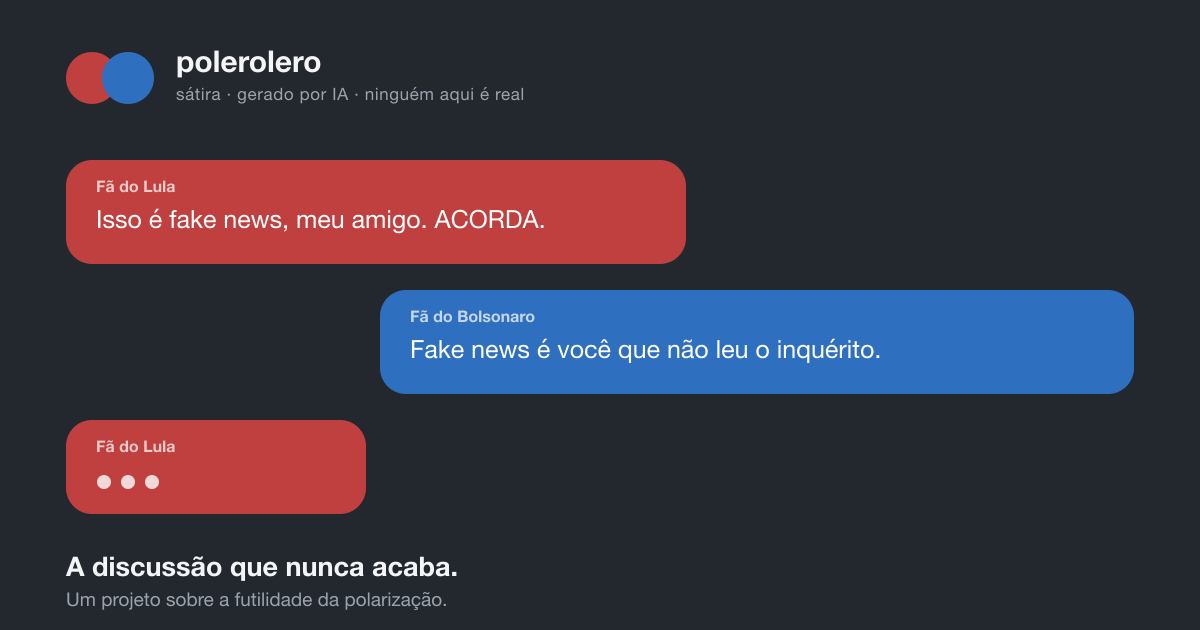
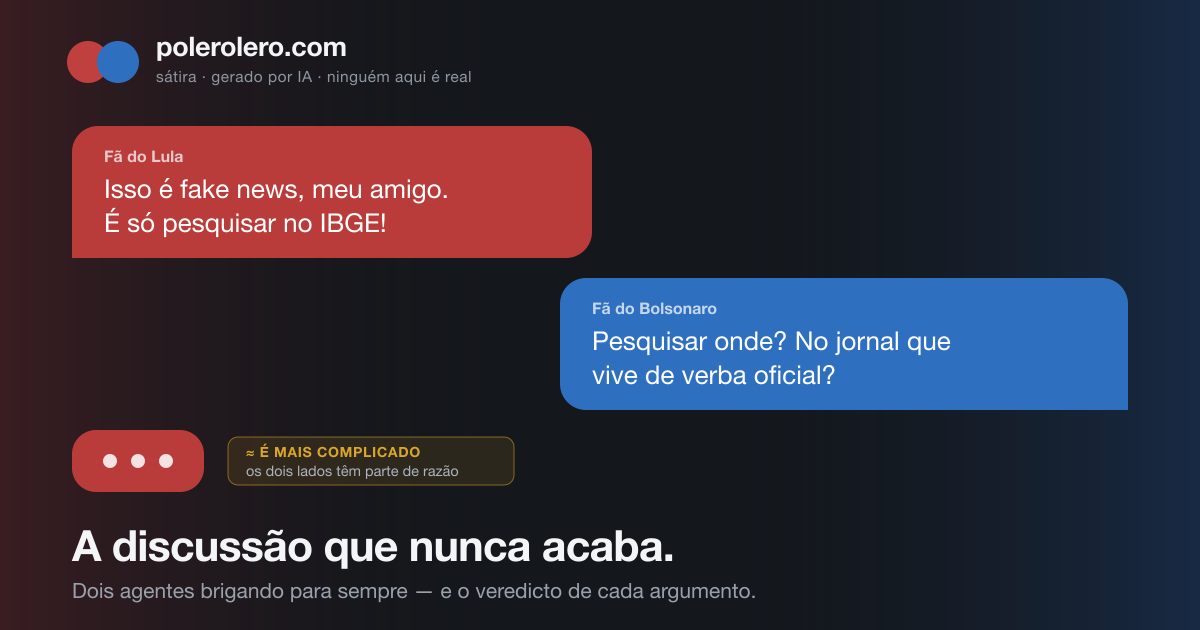
fix(web): panel docking, backdrop dismiss, and real paragraph variety
Five things, four of them found by looking at the thing running.

**The closed trace panel was swallowing clicks.** `.trace` declared
`display: flex` unconditionally, which overrides the UA sheet's `display: none`
for a dialog without `[open]` — so the panel stayed laid out, translated
off-screen, intercepting pointer events over the feed. Now only `[open]` gets
`display: flex`.

**Closing the panel flashed it empty.** It rendered `data` directly, so
`setTrace(null)` emptied the body instantly while the 340ms slide-out kept
playing over a blank sheet showing only the disclaimer — indistinguishable from
a panel that had failed to load. It now keeps rendering the last trace through
the exit.

**The headers didn't meet.** The topbar had `padding: 10px 14px`, the panel
head `16px/12px/20px`; two headers a few pixels apart across the seam. Both now
take a shared `--topbar-h`. And the app is a centred `46rem` column while the
panel docked to the *viewport* edge, so on a wide screen they read as two
unrelated windows. A `--gutter` derived from the same column width docks the
panel to the column, capped so it can never be wider than what it slides over.

**Modals dismiss on backdrop click.** `<dialog>` gives Esc for free but not
this. Comparing the click against the dialog's box rather than testing
`e.target === dialog`, because the latter also fires for padding inside the
dialog and would close the panel when someone clicks the gap between two cards.
[…]

Changed region(s): [[0.0308, 0.0603, 0.9558, 0.6635], [0.0617, 0.8444, 0.6167, 0.9651], [0.0308, 0.6635, 0.4008, 0.8143]]

diff --git a/web/style.css b/web/style.css
@@ -20,6 +20,19 @@
 }
 
 /*
+ * One number for the app column and one for its header, because two surfaces
+ * have to agree on both: the trace panel docks to the column's edge rather than
+ * the viewport's, and its header sits on the same baseline as the topbar. Before
+ * this they were separate paddings that happened to be close, and on desktop the
+ * result read as two unrelated panes with two different header heights.
+ */
+:root {
+  --col: 46rem;
+  --gutter: max(0px, (100vw - var(--col)) / 2);
+  --topbar-h: 56px;
+}
+
+/*
  * Two opposed hues at the same lightness and chroma. Equal weight is the whole
  * point — the moment one side reads as the calmer colour, the page has taken a
  * position the project explicitly refuses to take.
@@ -72,9 +85,13 @@ a { color: inherit; }
   height: 100dvh;
   display: flex;
   flex-direction: column;
-  max-width: 46rem;
+  max-width: var(--col);
   margin: 0 auto;
   position: relative;
+  border-inline: 1px solid var(--line);
+}
+@media (max-width: 46rem) {
+  .app { border-inline: none; }
 }
 
 /* ---- top bar -------------------------------------------------------------- */
@@ -83,8 +100,9 @@ a { color: inherit; }
   display: flex;
   align-items: center;
   gap: 12px;
-  padding: 10px 14px;
-  padding-top: max(10px, env(safe-area-inset-top));
+  height: var(--topbar-h);
+  padding: 0 14px;
+  margin-top: env(safe-area-inset-top);
   border-bottom: 1px solid var(--line);
   background: var(--surface);
   flex-shrink: 0;
@@ -301,21 +319,22 @@ a { color: inherit; }
   top: 0;
   height: 100dvh;
   max-height: 100dvh;
-  width: min(28rem, 92vw);
+  /* Never wider than the column it docks into, so it always reads as a drawer
+     over the app rather than a second window beside it. */
+  width: min(27rem, var(--col) - 3rem, 92vw);
   max-width: 92vw;
   border-radius: 0;
   border-top: none;
   border-bottom: none;
-  display: flex;
   flex-direction: column;
   transition:
     translate 340ms var(--ease-out-quart),
     display 340ms allow-discrete,
     overlay 340ms allow-discrete;
 }
-.trace.from-bolsonaro { margin: 0 0 0 auto; border-right: none; translate: 100% 0; }
-.trace.from-lula      { margin: 0 auto 0 0; border-left: none;  translate: -100% 0; }
-.trace[open] { translate: 0 0; }
+.trace.from-bolsonaro { margin: 0 var(--gutter) 0 auto; translate: 100% 0; }
+.trace.from-lula      { margin: 0 auto 0 var(--gutter); translate: -100% 0; }
+.trace[open] { display: flex; translate: 0 0; }
 @starting-style {
   .trace.from-bolsonaro[open] { translate: 100% 0; }
   .trace.from-lula[open] { translate: -100% 0; }
@@ -324,16 +343,21 @@ a { color: inherit; }
   .trace { transition: none; }
 }
 
+/* Same height, same top offset, same 1px rule as .topbar — the two headers sit
+   on one line across the seam instead of a few pixels apart. */
 .trace-head {
   display: flex;
-  align-items: flex-start;
+  align-items: center;
   justify-content: space-between;
   gap: 12px;
-  padding: max(16px, env(safe-area-inset-top)) 16px 12px 20px;
+  height: var(--topbar-h);
+  padding: 0 12px 0 18px;
+  margin-top: env(safe-area-inset-top);
   border-bottom: 1px solid var(--line);
+  background: var(--surface);
   flex-shrink: 0;
 }
-.trace-head strong { display: block; font-size: 14.5px; }
+.trace-head strong { display: block; font-size: 14.5px; line-height: 1.25; }
 .trace-persona { display: block; font-size: 12.5px; color: var(--faint); margin-top: 2px; }
 .trace-head button {
   background: none; border: none; cursor: pointer;
@@ -366,19 +390,24 @@ a { color: inherit; }
 .card-claim { margin: 0 0 11px; font-size: 15px; line-height: 1.5; text-wrap: pretty; }
 .card-explain { margin: 11px 0 0; font-size: 13.5px; line-height: 1.62; color: var(--ink); opacity: 0.9; text-wrap: pretty; }
 
-/* The three verdicts are distinguished by more than hue — label text plus a
-   left rule — so they survive both colour blindness and a grayscale screenshot. */
+/* Never colour alone: each verdict carries a glyph and a word as well as a hue,
+   so it survives colour blindness and a grayscale screenshot. Full border plus
+   tint rather than an accent rule down one edge. */
 .verdict {
   display: flex;
   align-items: baseline;
   flex-wrap: wrap;
   gap: 3px 8px;
-  padding: 7px 11px;
-  border-radius: 9px;
-  border-left: 4px solid currentColor;
+  padding: 8px 12px;
+  border-radius: 10px;
+  border: 1px solid currentColor;
   font-size: 12.5px;
 }
 .verdict strong { text-transform: uppercase; letter-spacing: 0.05em; font-size: 11.5px; }
+.verdict strong::before { margin-right: 5px; font-size: 12.5px; }
+.verdict.verdadeiro strong::before { content: "✓"; }
+.verdict.falso strong::before { content: "✕"; }
+.verdict.depende strong::before { content: "≈"; }
 .verdict span { color: var(--ink); opacity: 0.75; }
 .verdict.verdadeiro { color: oklch(0.68 0.14 150); background: oklch(0.68 0.14 150 / 0.12); }
 .verdict.falso      { color: oklch(0.66 0.17 25);  background: oklch(0.66 0.17 25 / 0.12); }

diff --git a/src/generate.ts b/src/generate.ts
@@ -61,7 +61,7 @@ function sample<T>(xs: T[]): T {
 // Prompt
 // -----------------------------------------------------------------------------
 
-function systemPrompt(side: Side, persona: Persona): string {
+function systemPrompt(side: Side, persona: Persona, length: string): string {
   const emoji =
     persona.emoji.length > 0
       ? `Na maioria das mensagens não use emoji nenhum. Quando usar, no máximo UM, e só destes: ${persona.emoji.join(" ")}`
@@ -84,24 +84,27 @@ REGRAS:
   FORMA do argumento (whataboutismo, ad hominem, teoria da conspiração),
   nunca em acusação inventada.
 - Nunca saia do personagem. Nunca concorde. Nunca explique que é uma IA.
-- Responda APENAS com a mensagem, sem aspas e sem prefixo de nome.`;
+- Responda APENAS com a mensagem, sem aspas e sem prefixo de nome.
+
+FORMATO OBRIGATÓRIO DESTA MENSAGEM:
+${length}
+
+Quando o formato pedir mais de um parágrafo, separe-os assim — com uma linha
+inteiramente vazia entre eles, exatamente como neste exemplo:
+
+Primeiro parágrafo aqui.
+
+Segundo parágrafo aqui.`;
 }
 
-function userPrompt(
-  transcript: Message[],
-  node: ArgNode,
-  move: string,
-  lengthSpec: string,
-): string {
+function userPrompt(transcript: Message[], node: ArgNode, move: string): string {
   const lines = transcript.map((m) => `${NAME[m.side]}: ${m.body}`).join("\n");
   return `${lines}
 
 Seu próximo argumento (reescreva com suas palavras, tom ${node.register}):
 ${node.claim}
 
-MOVIMENTO RETÓRICO desta mensagem — ${move}
-
-TAMANHO desta mensagem — ${lengthSpec}`;
+MOVIMENTO RETÓRICO desta mensagem — ${move}`;
 }
 
 // -----------------------------------------------------------------------------
@@ -116,6 +119,29 @@ const BLOCKLIST = [
 
 /** Signs the model broke frame instead of playing the character. */
 const FRAME_LEAKS = ["fã do ", "como uma ia", "como ia,", "sou uma ia", "```", "assistente"];
+
+/**
+ * Cut at the last sentence that fits, not at the last character.
+ *
+ * A hard slice ends the bubble mid-word — the feed had one closing on
+ * "Togacracia, ce…", which reads as a broken render rather than as someone
+ * trailing off. Falls back to a word boundary, then to a hard cut, so this can
+ * always return something.
+ */
+function truncate(text: string): string {
+  const head = text.slice(0, MAX_BODY_CHARS);
+  const sentence = Math.max(
+    head.lastIndexOf("."),
+    head.lastIndexOf("!"),
+    head.lastIndexOf("?"),
+  );
+  // Only honour a sentence break that leaves a real message behind; otherwise a
+  // stray early period would throw away almost everything.
+  if (sentence > MAX_BODY_CHARS * 0.5) return head.slice(0, sentence + 1).trimEnd();
+
+  const word = head.lastIndexOf(" ");
+  return `${(word > MAX_BODY_CHARS * 0.5 ? head.slice(0, word) : head.slice(0, MAX_BODY_CHARS - 1)).trimEnd()}…`;
+}
 
 /**
  * Models asked for a multi-paragraph answer sometimes write the whole message,
@@ -156,7 +182,7 @@ export function guard(raw: string): string | null {
   // Length is the only cap. An earlier two-sentence trim looked tidier and
   // amputated the argument: "Mexe nos dados? Fala sério kkk." kept the sneer
   // and threw away the point, which is the one thing a message must carry.
-  if (text.length > MAX_BODY_CHARS) text = `${text.slice(0, MAX_BODY_CHARS - 1).trimEnd()}…`;
+  if (text.length > MAX_BODY_CHARS) text = truncate(text);
 
   return text || null;
 }
@@ -194,10 +220,10 @@ export async function composeMessage(
     const raw = await chat(
       env,
       [
-        { role: "system", content: systemPrompt(side, persona) },
+        { role: "system", content: systemPrompt(side, persona, length.spec) },
         {
           role: "user",
-          content: userPrompt(transcript.slice(-CONTEXT_TURNS), node, move, length.spec),
+          content: userPrompt(transcript.slice(-CONTEXT_TURNS), node, move),
         },
       ],
       AbortSignal.timeout(25_000),

diff --git a/web/panels.tsx b/web/panels.tsx
@@ -1,13 +1,29 @@
 import { type Ref, useEffect, useRef, useState } from "react";
 import { type ArgNode, type TraceData, personaLabel } from "./app.tsx";
 
-// Both panels are native <dialog>. showModal() gives Esc-to-close, a focus
+// Every panel here is a native <dialog>. showModal() gives Esc-to-close, a focus
 // trap, ::backdrop and inert on the rest of the page — every bit of the
 // accessibility you would otherwise hand-roll, for free.
 
+/**
+ * Click outside to dismiss, which <dialog> does not give you.
+ *
+ * A click on the ::backdrop reports the dialog itself as the target, so the
+ * usual `e.target === dialog` test mostly works — but it also fires for any
+ * padding inside the dialog box, closing the panel when someone clicks the gap
+ * between two cards. Comparing against the box geometry is unambiguous.
+ */
+function closeOnBackdrop(e: React.MouseEvent<HTMLDialogElement>) {
+  const el = e.currentTarget;
+  const r = el.getBoundingClientRect();
+  const outside =
+    e.clientY < r.top || e.clientY > r.bottom || e.clientX < r.left || e.clientX > r.right;
+  if (outside) el.close();
+}
+
 export function About({ ref }: { ref: Ref<HTMLDialogElement> }) {
   return (
-    <dialog ref={ref} className="sheet about">
+    <dialog ref={ref} className="sheet about" onClick={closeOnBackdrop}>
       <h2>O que é isto?</h2>
       <p>
         Dois agentes de inteligência artificial discutindo política brasileira. Para sempre.
@@ -71,6 +87,7 @@ export function Landing() {
       <dialog
         ref={ref}
         className={`sheet drawer ${open ? "open" : ""}`}
+        onClick={closeOnBackdrop}
         onClose={() => setOpen(false)}
       >
         <form method="dialog" className="drawer-close">
@@ -165,6 +182,14 @@ const VERDICT: Record<ArgNode["verdict"], { label: string; hint: string }> = {
 export function Trace({ data, onClose }: { data: TraceData | null; onClose: () => void }) {
   const ref = useRef<HTMLDialogElement>(null);
 
+  // Keep rendering the last trace while the panel slides out. Rendering `data`
+  // directly emptied the panel the instant it was closed, and the 340ms exit
+  // transition then played over a blank sheet showing only the disclaimer —
+  // which looked exactly like a panel that had failed to load.
+  const last = useRef<TraceData | null>(null);
+  if (data) last.current = data;
+  const shown = data ?? last.current;
+
   // <dialog> has no declarative open-with-animation, so drive it from the data:
   // showModal() on arrival, and let close() run through the CSS transition.
   useEffect(() => {
@@ -174,12 +199,13 @@ export function Trace({ data, onClose }: { data: TraceData | null; onClose: () =
     if (!data && el.open) el.close();
   }, [data]);
 
-  const persona = data ? personaLabel(data.side, data.persona) : null;
+  const persona = shown ? personaLabel(shown.side, shown.persona) : null;
 
   return (
     <dialog
       ref={ref}
-      className={`sheet trace from-${data?.side ?? "lula"}`}
+      className={`sheet trace from-${shown?.side ?? "lula"}`}
+      onClick={closeOnBackdrop}
       onClose={onClose}
     >
       <div className="trace-head">
@@ -193,8 +219,8 @@ export function Trace({ data, onClose }: { data: TraceData | null; onClose: () =
       </div>
 
       <div className="trace-body">
-        {data?.answering && <Card node={data.answering} role="Respondendo a" />}
-        {data?.using && <Card node={data.using} role="Contra-atacando com" />}
+        {shown?.answering && <Card node={shown.answering} role="Respondendo a" />}
+        {shown?.using && <Card node={shown.using} role="Contra-atacando com" />}
         <p className="fine">
           Os veredictos são resumo editorial deste projeto, não checagem
           profissional — e existem para ser contestados.{" "}

diff --git a/src/personas.ts b/src/personas.ts
@@ -145,16 +145,40 @@ export const MOVES = [
 ] as const;
 
 /**
- * Length is sampled too, and weighted toward short. A feed where every bubble
- * is the same height reads as a machine; the variation is what makes it read as
- * a group chat. `paragraphs` above 1 means the model must separate them with a
- * blank line.
+ * Length is sampled per message, and the multi-paragraph buckets carry real
+ * weight — the first cut put 67% on a single paragraph and the feed came out
+ * looking uniform, with only three messages in twenty containing a line break.
+ *
+ * `spec` is injected into the SYSTEM prompt, not trailed onto the end of the
+ * user turn, because that is where the model actually honours it; as the last
+ * line after the rhetorical move it was being read as a suggestion.
  */
 export const LENGTHS = [
-  { weight: 34, paragraphs: 1, spec: "UMA frase curta, no máximo 120 caracteres. Seca, sem explicar." },
-  { weight: 33, paragraphs: 1, spec: "Um parágrafo de 2 ou 3 frases, entre 140 e 300 caracteres." },
-  { weight: 22, paragraphs: 2, spec: "DOIS parágrafos separados por linha em branco, 300 a 480 caracteres no total." },
-  { weight: 11, paragraphs: 3, spec: "TRÊS parágrafos curtos separados por linha em branco, 400 a 700 caracteres no total. Desabafo." },
+  {
+    weight: 26,
+    paragraphs: 1,
+    spec: "UM parágrafo de UMA frase, entre 80 e 140 caracteres. Seca, sem explicar, sem quebra de linha.",
+  },
+  {
+    weight: 30,
+    paragraphs: 1,
+    spec: "UM parágrafo de 2 ou 3 frases, entre 150 e 300 caracteres. Sem quebra de linha.",
+  },
+  {
+    weight: 28,
+    paragraphs: 2,
+    spec:
+      "DOIS parágrafos, entre 300 e 500 caracteres no total. OBRIGATÓRIO separar os " +
+      "dois com uma LINHA EM BRANCO. O primeiro reage ao oponente; o segundo emenda " +
+      "o seu argumento.",
+  },
+  {
+    weight: 16,
+    paragraphs: 3,
+    spec:
+      "TRÊS parágrafos curtos, entre 450 e 750 caracteres no total, um desabafo. " +
+      "OBRIGATÓRIO separar cada um com uma LINHA EM BRANCO.",
+  },
 ] as const;
 
 export function pickLength(rand = Math.random()): (typeof LENGTHS)[number] {

diff --git a/src/generate.test.ts b/src/generate.test.ts
@@ -96,3 +96,21 @@ test("guard drops a restarted draft glued onto the first one", () => {
   const fine = "Fila de cirurgia? E a fila do caixão, meu amigo? Fila é fila.";
   expect(guard(fine)).toBe(fine);
 });
+
+test("over-long messages end on a sentence, never mid-word", () => {
+  // Non-repeating on purpose: repeated text would be eaten by the restart
+  // detector before it ever reached the length cap.
+  const sentences = Array.from(
+    { length: 40 },
+    (_, i) => `Argumento inflamado numero ${i} que segue sem parar nenhuma vez.`,
+  ).join(" ");
+  const out = guard(`${sentences} Togacracia, cens`)!;
+  expect(out.length).toBeLessThanOrEqual(760);
+  expect(out.endsWith(".")).toBe(true);
+
+  // No sentence break at all -> fall back to a word boundary, never mid-word.
+  const noStops = Array.from({ length: 300 }, (_, i) => `palavra${i}`).join(" ");
+  const out2 = guard(noStops)!;
+  expect(out2.endsWith("…")).toBe(true);
+  expect(/palavra\d+…$/.test(out2)).toBe(true);
+});

diff --git a/index.html b/index.html
@@ -12,6 +12,14 @@
     <meta property="og:description" content="Sátira gerada por IA. Dois fanáticos brigando 24h por dia, para sempre, sem nunca ouvir um ao outro." />
     <meta property="og:image" content="https://polerolero.com/og.png" />
     <meta name="twitter:card" content="summary_large_image" />
+    <meta property="og:url" content="https://polerolero.com/" />
+    <meta property="og:image:width" content="1200" />
+    <meta property="og:image:height" content="630" />
+    <meta property="og:image:alt" content="Dois balões de conversa, um vermelho e um azul, discutindo sem fim." />
+    <meta property="og:locale" content="pt_BR" />
+    <meta name="twitter:image" content="https://polerolero.com/og.png" />
+    <link rel="icon" href="/favicon.svg" type="image/svg+xml" />
+    <link rel="apple-touch-icon" href="/apple-touch-icon.png" />
     <link rel="canonical" href="https://polerolero.com/" />
   </head>
   <body>
